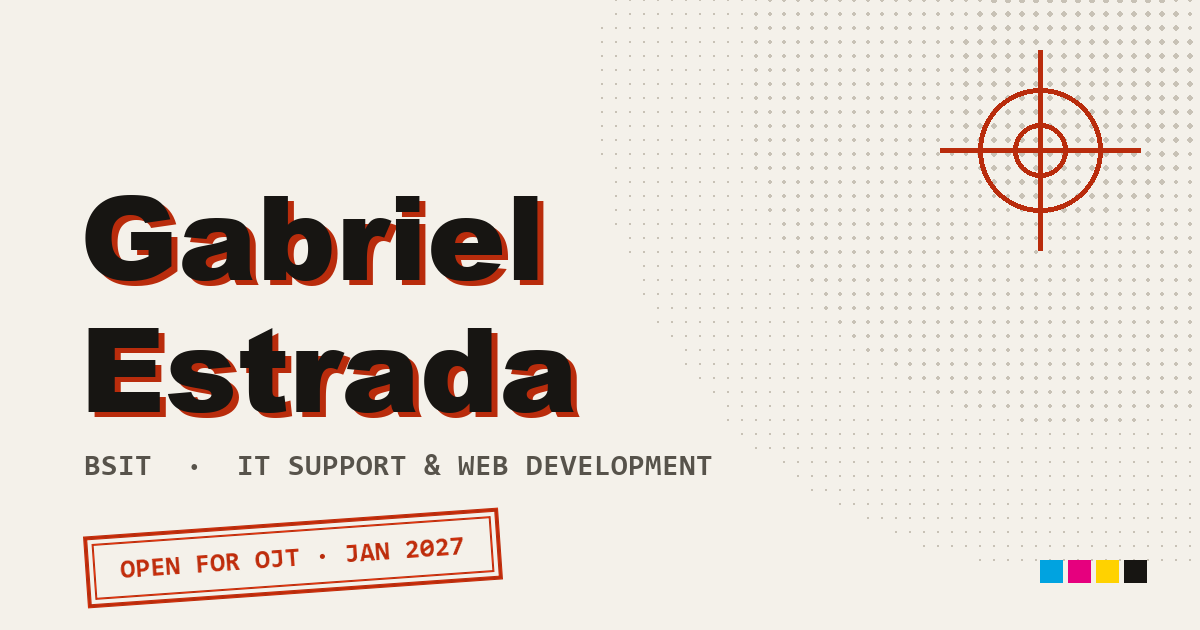
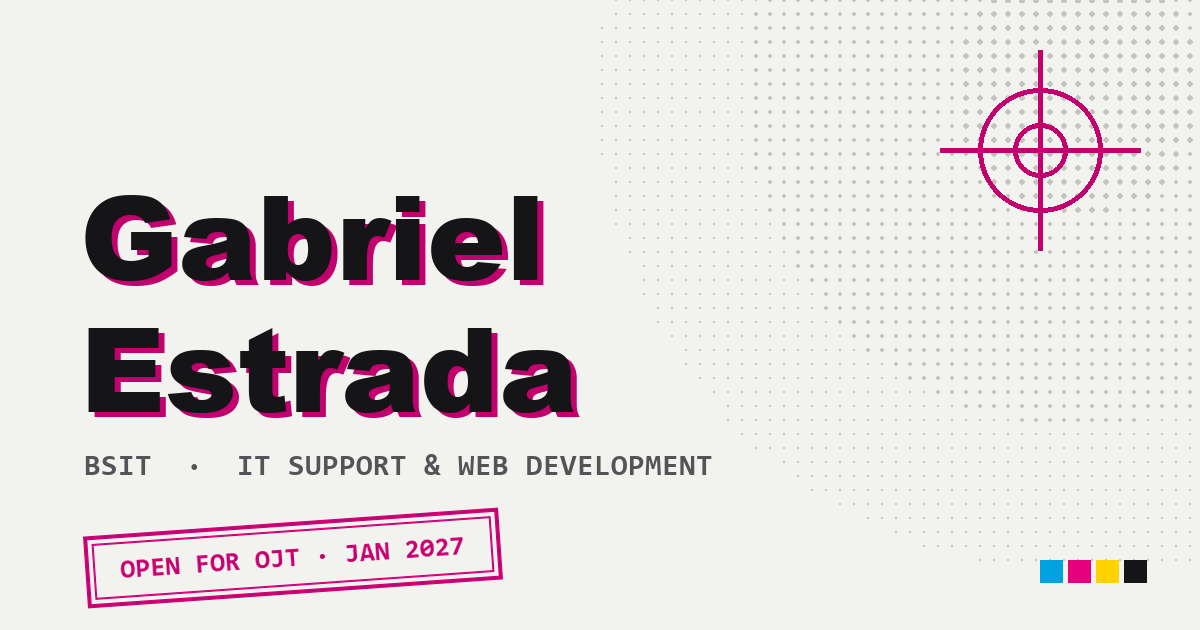
Switch accent from orange to process magenta on neutral paper
The cream background with an orange accent read too close to Claude's
palette. Use process magenta (the M in CMYK) and a cooler newsprint
paper instead; regenerate favicons and the link-preview image.

diff --git a/css/style.css b/css/style.css
@@ -1,7 +1,7 @@
 /* =====================================================================
    PORTFOLIO STYLES
    ---------------------------------------------------------------------
-   Visual idea: a print shop. Warm paper, ink-black type, vermilion ink,
+   Visual idea: a print shop. Newsprint paper, ink-black type, process-magenta ink,
    yellow highlighter, halftone dots, registration and crop marks.
 
    1. Design tokens (EDIT colors & fonts here)
@@ -20,20 +20,20 @@
   --font-mono: "IBM Plex Mono", ui-monospace, "Cascadia Code", Consolas, monospace;
 
   /* EDIT: Accent ink (light mode). Keep it dark enough to read on paper. */
-  --accent: #b92c0c;
-  --accent-hover: #9a2309;
+  --accent: #c2006e;
+  --accent-hover: #9e005a;
   --accent-contrast: #ffffff;               /* text on top of accent */
   --highlight: rgba(255, 210, 0, 0.55);     /* yellow highlighter */
 
   /* Light palette: paper and ink */
-  --bg: #f4f1ea;
-  --bg-alt: #ebe6da;
-  --surface: #faf8f3;
-  --text: #171512;
-  --text-muted: #57534b;
-  --border: #d8d2c4;
-  --field-border: #8f897d;
-  --dot: rgba(23, 21, 18, 0.22);             /* halftone dots */
+  --bg: #f2f2ee;
+  --bg-alt: #e7e7e1;
+  --surface: #fafaf8;
+  --text: #151517;
+  --text-muted: #545458;
+  --border: #d4d4cd;
+  --field-border: #8a8a86;
+  --dot: rgba(21, 21, 23, 0.2);             /* halftone dots */
 
   /* Sizing */
   --container: 1200px;
@@ -47,19 +47,19 @@
 
 /* EDIT: Dark mode palette (accent is brighter so it stays readable on dark) */
 :root[data-theme="dark"] {
-  --accent: #ff6b3d;
-  --accent-hover: #ff8a63;
-  --accent-contrast: #141310;
+  --accent: #ff5cb8;
+  --accent-hover: #ff85ca;
+  --accent-contrast: #121214;
   --highlight: rgba(255, 210, 0, 0.3);
 
-  --bg: #141310;
-  --bg-alt: #1b1a16;
-  --surface: #211f1b;
-  --text: #f1ede4;
-  --text-muted: #aaa497;
-  --border: #34312b;
-  --field-border: #6f6a60;
-  --dot: rgba(241, 237, 228, 0.16);
+  --bg: #121214;
+  --bg-alt: #19191c;
+  --surface: #202024;
+  --text: #efefea;
+  --text-muted: #a7a7a3;
+  --border: #313135;
+  --field-border: #6c6c70;
+  --dot: rgba(239, 239, 234, 0.16);
 
   color-scheme: dark;
 }
@@ -67,18 +67,18 @@
 /* Without JavaScript, follow the system setting */
 @media (prefers-color-scheme: dark) {
   :root:not([data-theme]) {
-    --accent: #ff6b3d;
-    --accent-hover: #ff8a63;
-    --accent-contrast: #141310;
+    --accent: #ff5cb8;
+    --accent-hover: #ff85ca;
+    --accent-contrast: #121214;
     --highlight: rgba(255, 210, 0, 0.3);
-    --bg: #141310;
-    --bg-alt: #1b1a16;
-    --surface: #211f1b;
-    --text: #f1ede4;
-    --text-muted: #aaa497;
-    --border: #34312b;
-    --field-border: #6f6a60;
-    --dot: rgba(241, 237, 228, 0.16);
+    --bg: #121214;
+    --bg-alt: #19191c;
+    --surface: #202024;
+    --text: #efefea;
+    --text-muted: #a7a7a3;
+    --border: #313135;
+    --field-border: #6c6c70;
+    --dot: rgba(239, 239, 234, 0.16);
     color-scheme: dark;
   }
 }

diff --git a/index.html b/index.html
@@ -36,8 +36,8 @@
   <link rel="apple-touch-icon" href="assets/apple-touch-icon.png">
 
   <!-- Theme color for mobile browser UI -->
-  <meta name="theme-color" content="#F4F1EA" media="(prefers-color-scheme: light)">
-  <meta name="theme-color" content="#141310" media="(prefers-color-scheme: dark)">
+  <meta name="theme-color" content="#F2F2EE" media="(prefers-color-scheme: light)">
+  <meta name="theme-color" content="#121214" media="(prefers-color-scheme: dark)">
 
   <!-- Google Fonts: Archivo (headings), IBM Plex Sans (body), IBM Plex Mono (labels) -->
   <link rel="preconnect" href="https://fonts.googleapis.com">

diff --git a/js/main.js b/js/main.js
@@ -32,7 +32,7 @@
     }
     // Keep the mobile browser bar in sync with the chosen theme
     themeColorMetas.forEach(function (meta) {
-      meta.setAttribute('content', theme === 'dark' ? '#141310' : '#F4F1EA');
+      meta.setAttribute('content', theme === 'dark' ? '#121214' : '#F2F2EE');
     });
   }
 

diff --git a/CLAUDE.md b/CLAUDE.md
@@ -14,8 +14,8 @@ Note: this repo is public and served as-is. Everything here, including this file
 - Only describe work the user did (check commit authorship before writing "My part" lines).
 
 ## Design direction
-The user explicitly wants nothing that looks like a typical AI-generated site. The look is a print shop (his family business): paper background, ink-black type, vermilion accent, yellow highlighter, halftone dots, registration/crop marks, CMYK color bar, rubber-stamp label, hard offset-shadow buttons, square corners. Fonts: Archivo (wide, heavy headings), IBM Plex Sans (body), IBM Plex Mono (labels).
-Avoid: purple/indigo accents, Inter/Space Grotesk, pill buttons with glow shadows, frosted-glass headers, blurred gradient blobs, grid backgrounds, rounded card grids, pill tags, pulsing status dots, mouse scroll icons, cute sentence headings ("A little about me.").
+The user explicitly wants nothing that looks like a typical AI-generated site. The look is a print shop (his family business): neutral newsprint background, ink-black type, process-magenta accent (#C2006E light / #FF5CB8 dark), yellow highlighter, halftone dots, registration/crop marks, CMYK color bar, rubber-stamp label, hard offset-shadow buttons, square corners. Fonts: Archivo (wide, heavy headings), IBM Plex Sans (body), IBM Plex Mono (labels).
+Avoid: orange/terracotta accents on warm cream (reads as Claude's palette; the user rejected it), purple/indigo accents, Inter/Space Grotesk, pill buttons with glow shadows, frosted-glass headers, blurred gradient blobs, grid backgrounds, rounded card grids, pill tags, pulsing status dots, mouse scroll icons, cute sentence headings ("A little about me.").
 Scroll animations are in `css/style.css` section 6 plus `main.js` section 4; every hidden start state is scoped to `html.js` and switched off under `prefers-reduced-motion`. When regenerating `assets/og-image.png` or the favicons, use the same palette.
 
 ## Facts confirmed with the user
